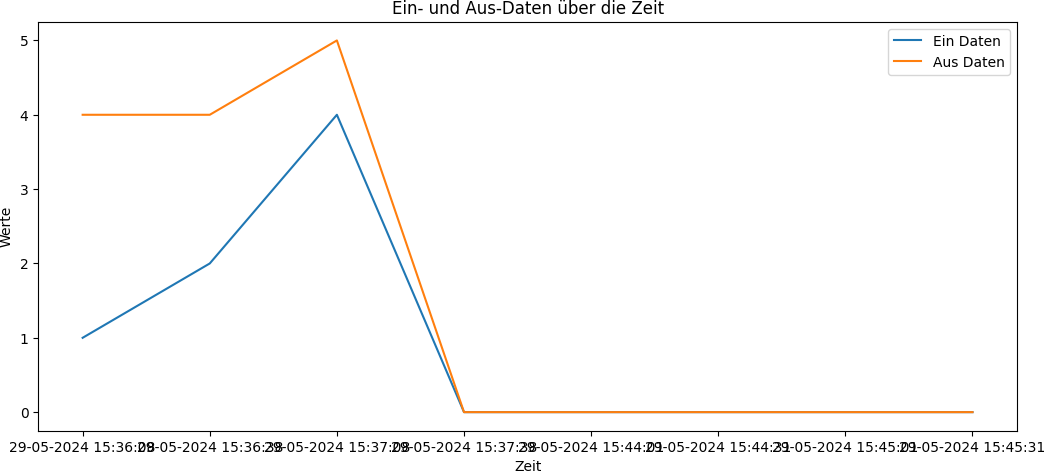
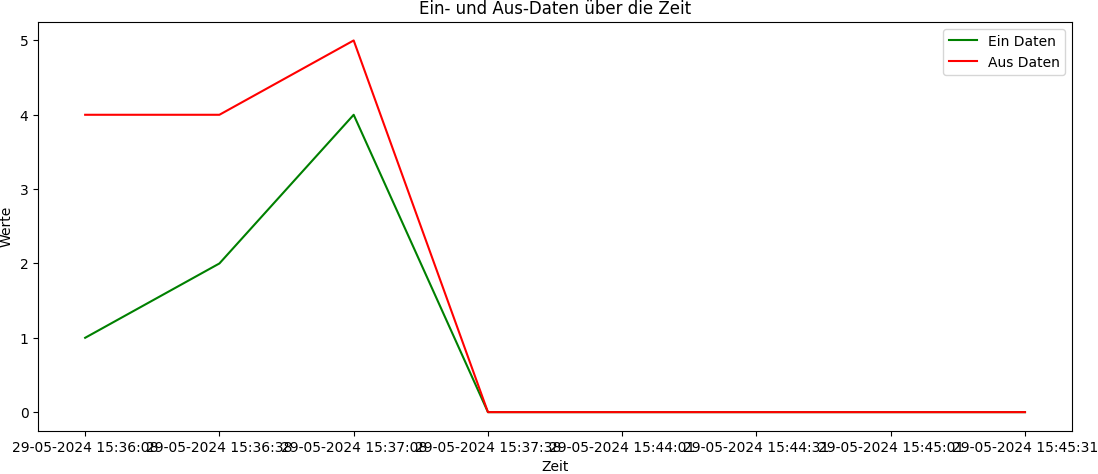
Eínbezug der Umgebungsvariablen

diff --git a/GUI/main_gui.py b/GUI/main_gui.py
@@ -40,8 +40,8 @@ class MainWindow(QMainWindow):
 
         # Plotten der Daten mit Matplotlib und dynamische Anpassung der Größe
         fig, ax = plt.subplots(figsize=(width / 100, height / 100))
-        ax.plot(self.zeiten, self.yeinDaten, label='Ein Daten')
-        ax.plot(self.zeiten, self.yausDaten, label='Aus Daten')
+        ax.plot(self.zeiten, self.yeinDaten, label='Ein Daten', color='green')
+        ax.plot(self.zeiten, self.yausDaten, label='Aus Daten', color= 'red')
         ax.set_xlabel('Zeit')
         ax.set_ylabel('Werte')
         ax.set_title('Ein- und Aus-Daten über die Zeit')
